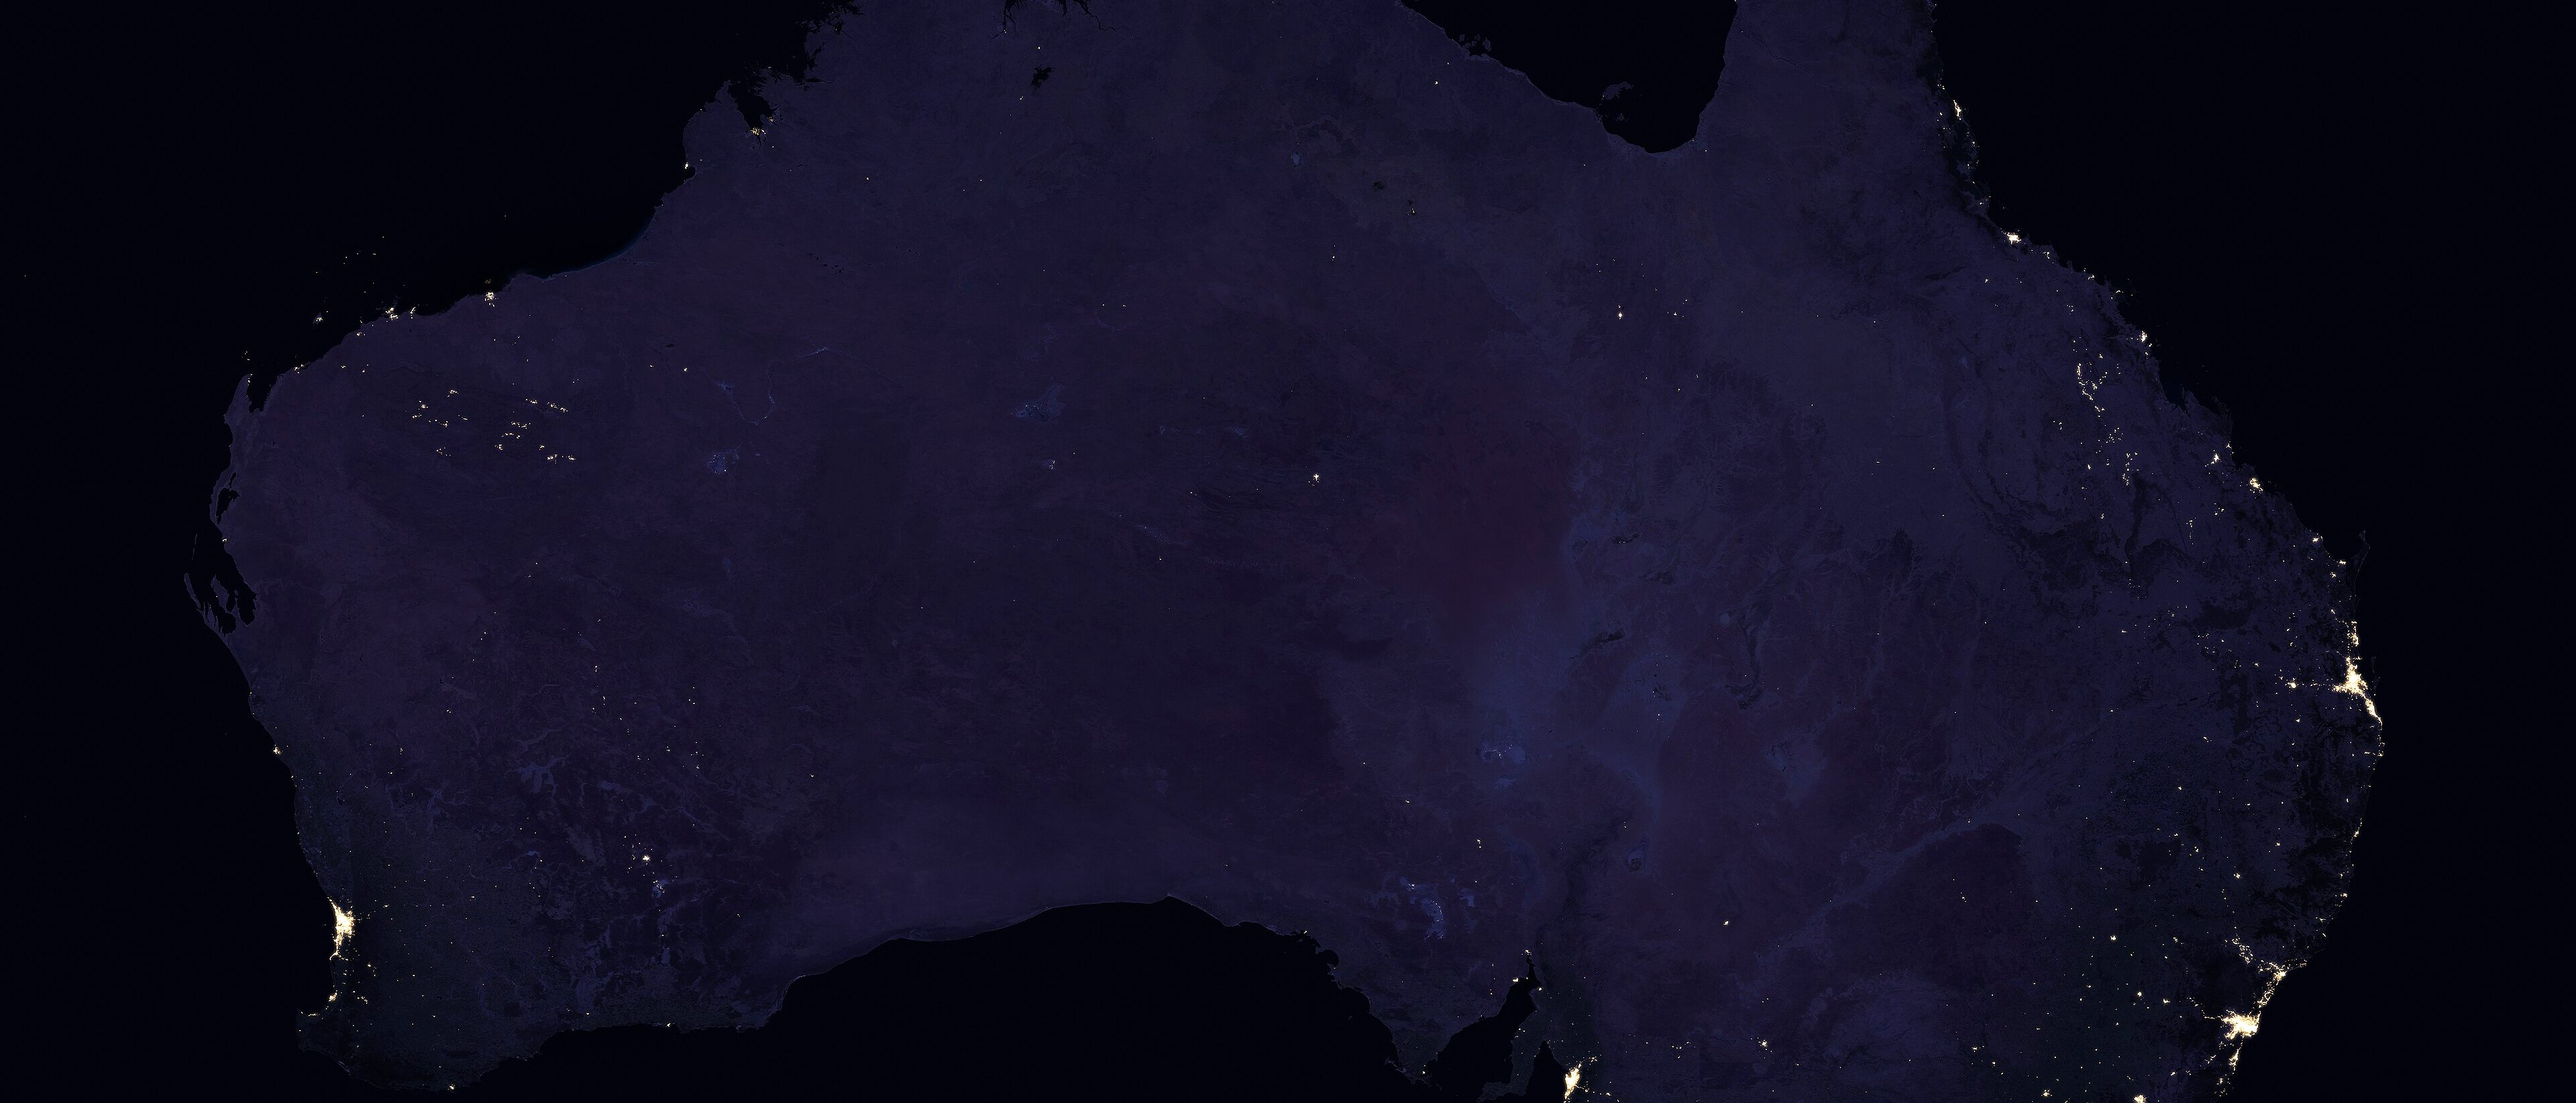
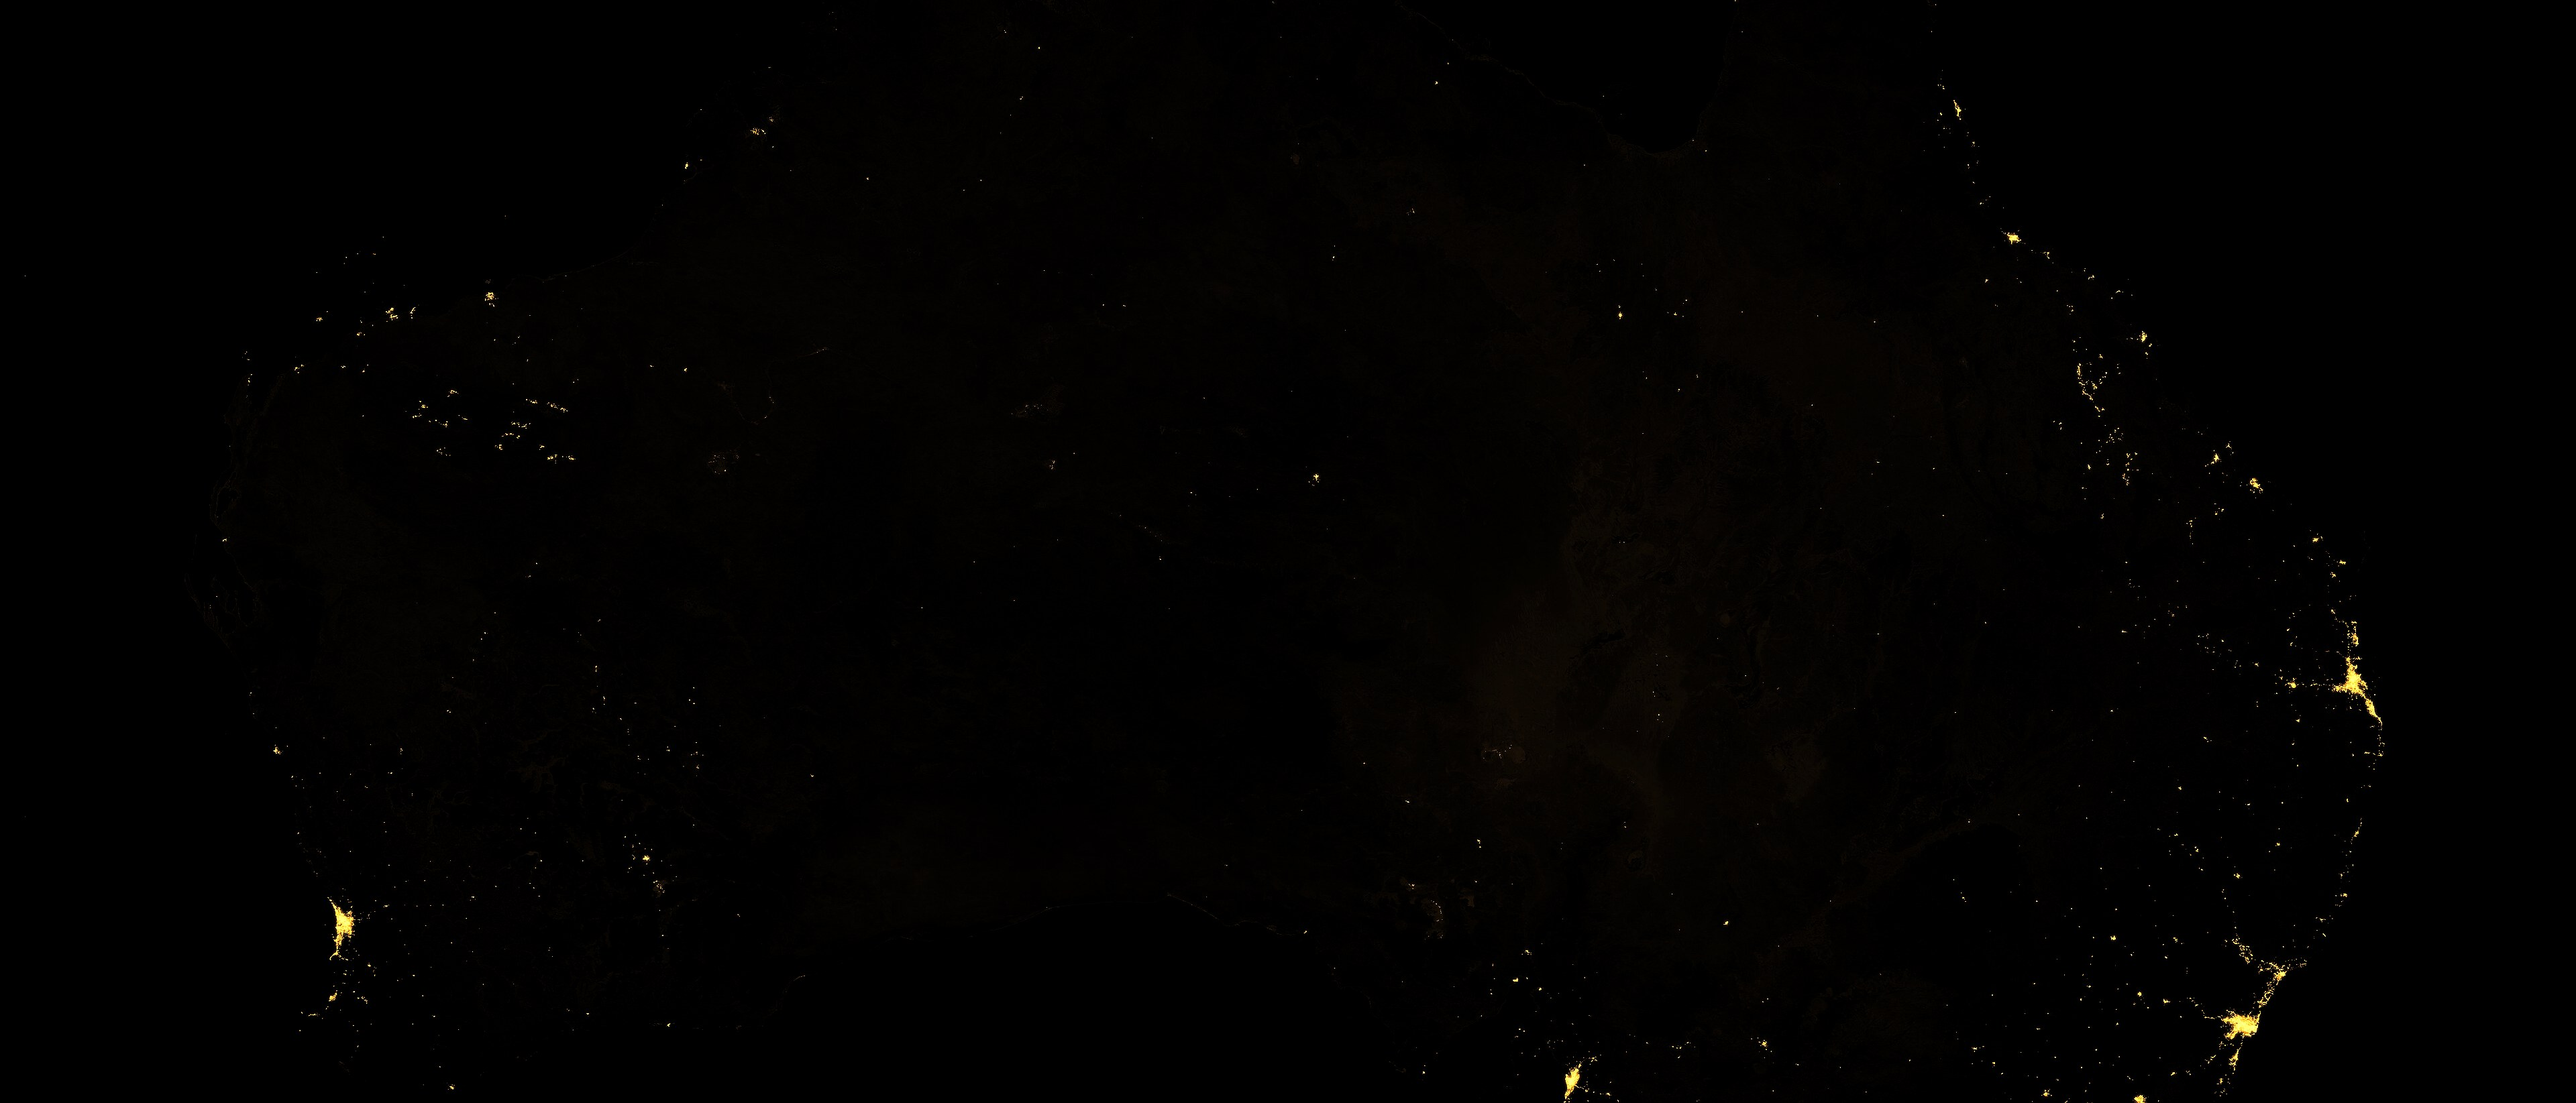
Night map: crush the grey wash, warm the lights.
Same NASA Black Marble survey. Presentation grade only — no cities added.

diff --git a/index.html b/index.html
@@ -62,7 +62,7 @@
       <img src="images/map-australia-night.jpg" alt="Australia at night — city lights on a dark continent. NASA Black Marble, Suomi NPP VIIRS, 2016 composite.">
       <figcaption>The map. NASA Black Marble 2016 — Suomi NPP VIIRS. Public domain. Belt: science. Not a TerAustralis facility.</figcaption>
     </figure>
-    <p class="source-link">Opening night: the same survey, cropped. Credit: NASA Earth Observatory image by Joshua Stevens, using Suomi NPP VIIRS data from Miguel Román, NASA GSFC. Wikimedia <em>Map of Australia night sky 2016</em>.</p>
+    <p class="source-link">Opening night: NASA Black Marble 2016 (Suomi NPP VIIRS). Presentation grade — blacks crushed, lights warmed. No cities added. Credit: NASA Earth Observatory / Joshua Stevens, VIIRS data Miguel Román, NASA GSFC.</p>
   </div>
 </section>
 

diff --git a/styles.css b/styles.css
@@ -703,8 +703,7 @@ body.home nav .links a:hover { color: var(--dust); }
   inset: 0;
   z-index: 1;
   background:
-    linear-gradient(180deg, rgba(7,4,10,0.18) 0%, rgba(7,4,10,0.12) 38%, rgba(7,4,10,0.78) 72%, #07040a 100%),
-    linear-gradient(90deg, rgba(7,4,10,0.45) 0%, transparent 38%, transparent 70%, rgba(7,4,10,0.35) 100%);
+    linear-gradient(180deg, rgba(7,4,10,0.08) 0%, rgba(7,4,10,0.04) 42%, rgba(7,4,10,0.55) 78%, #07040a 100%);
   pointer-events: none;
 }
 .hero-cinema .wrap {
